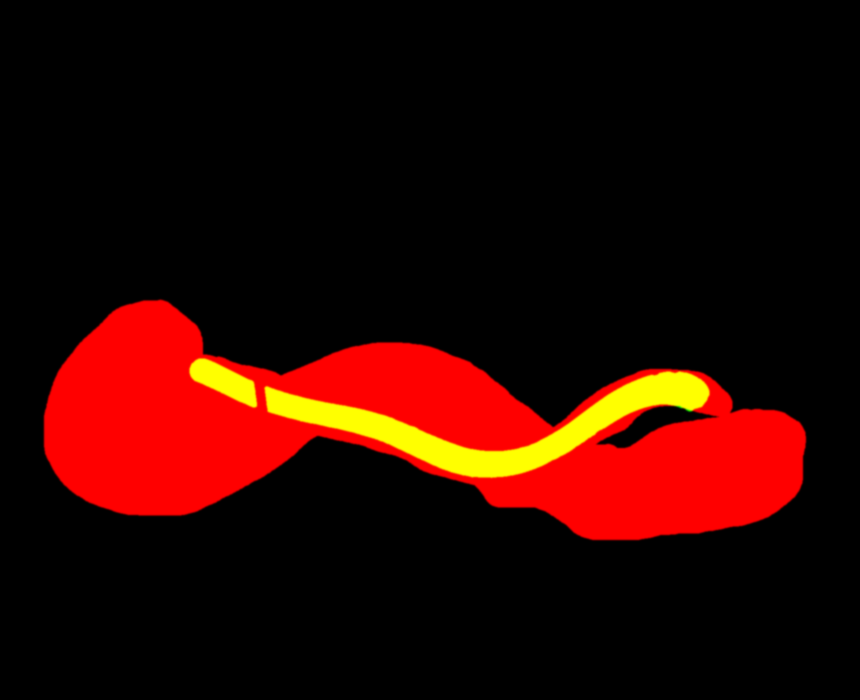
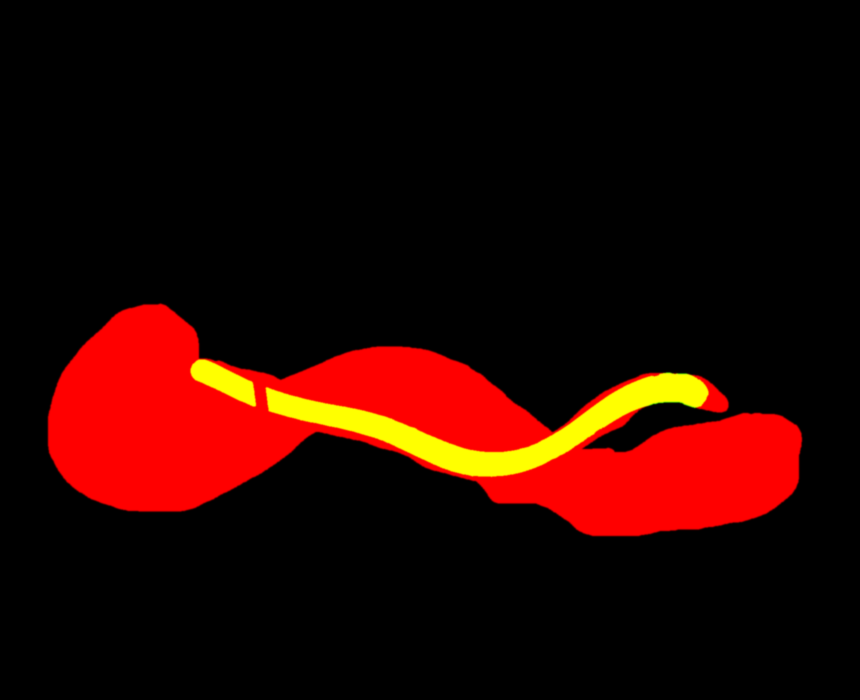
Hero: snakes only, no glow halo

diff --git a/assets/js/main.js b/assets/js/main.js
@@ -169,10 +169,7 @@ void main(){
   vec3 c=mix(texture2D(plate,v).rgb,texture2D(pon,v).rgb,on);
   c=mix(c,texture2D(snk,v).rgb,w1);
   c=mix(c,o,w2);
-  float g1=step(0.,d1)*exp(-d1/.05)*A.r*step(0.001,P)*(1.-step(.99,P));
-  float g2=step(0.,d2)*exp(-d2/.05)*A.g*step(0.001,q)*(1.-step(.99,q));
-  c+=g1*vec3(.55,.30,.95)*(1.-w2)+g2*vec3(.95,.45,.35);
-  gl_FragColor=vec4(mix(c,o,f),1.);}`));
+  gl_FragColor=vec4(c,1.);}`));
     gl.linkProgram(pr); gl.useProgram(pr);
     const b = gl.createBuffer(); gl.bindBuffer(gl.ARRAY_BUFFER, b);
     gl.bufferData(gl.ARRAY_BUFFER, new Float32Array([-1, -1, 1, -1, -1, 1, 1, 1]), gl.STATIC_DRAW);
@@ -203,9 +200,8 @@ void main(){
         const tick = now => {
           const k = Math.min(1, Math.max(0, (now - t0) / D));
           h.p = ease(k) * 1.02;
-          h.f = Math.min(1, Math.max(0, (now - t0 - D) / 700));
           draw();
-          if (h.f < 1) requestAnimationFrame(tick);
+          if (k < 1) requestAnimationFrame(tick);
         };
         requestAnimationFrame(tick);
       });
